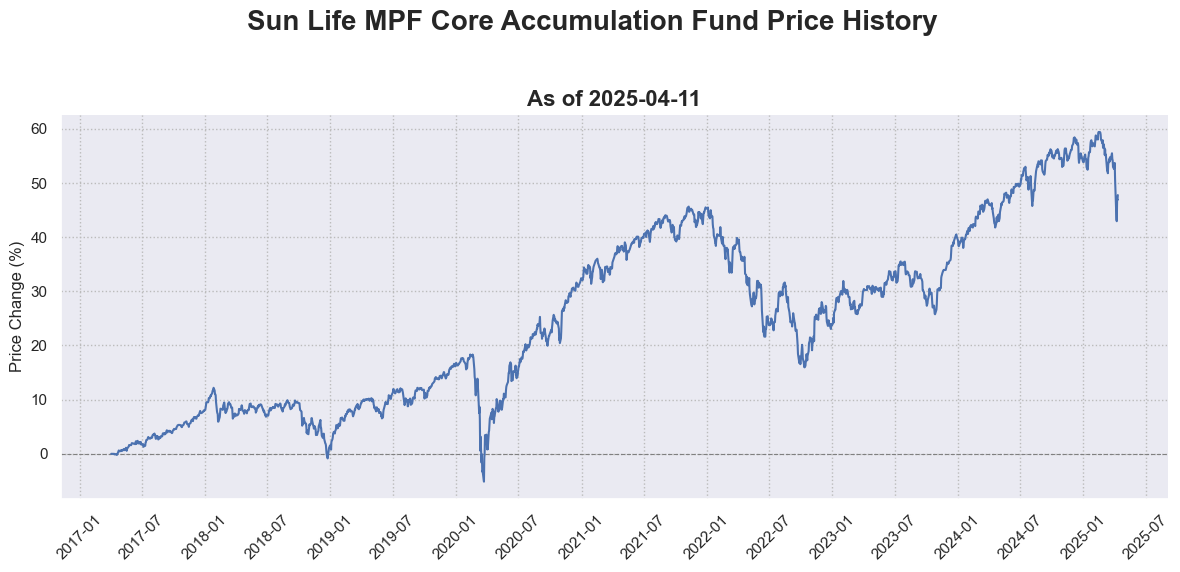
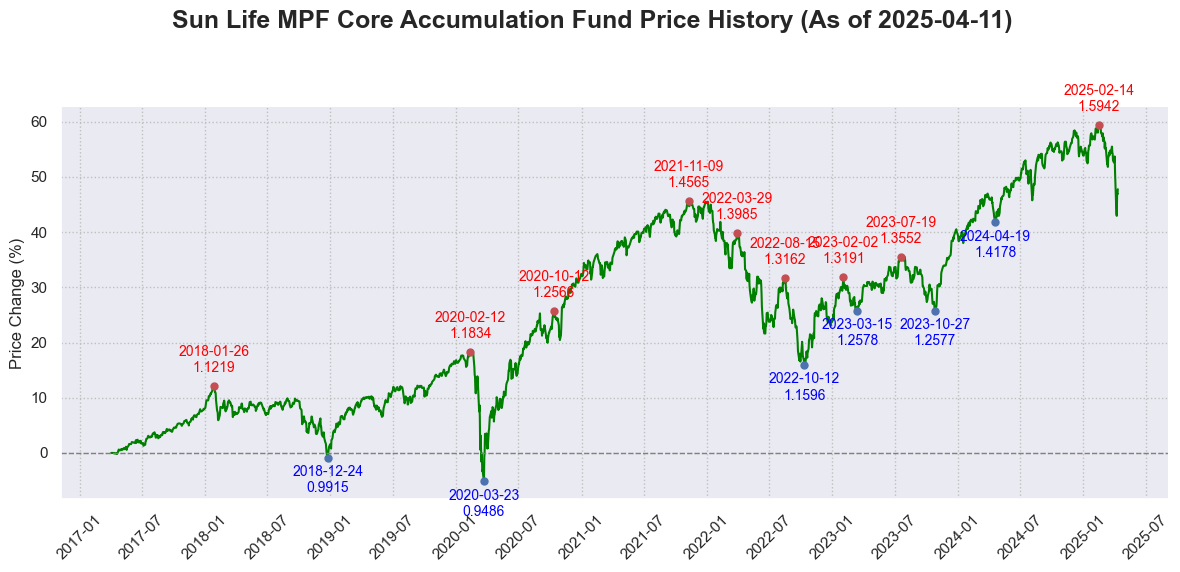
implement peaks and troughs annotation

diff --git a/visualizer.py b/visualizer.py
@@ -2,8 +2,10 @@ import os
 import matplotlib.pyplot as plt
 import matplotlib.dates as mdates
 import pandas as pd
+import numpy as np
 import seaborn as sns
 from datetime import timedelta, datetime
+from scipy.signal import find_peaks
 
 data_path = 'data'
 output_path = 'output'
@@ -96,16 +98,6 @@ def per_fund():
     fund_abbrs = names['abbr'].unique()
 
     for abbr in fund_abbrs:
-        fig, ax = plt.subplots(figsize=(12, 6))
-        full_name = names[names['abbr'] == abbr]['name'].values[0]
-        fig.suptitle(f'{full_name} Price History', fontsize=20, fontweight='bold')
-        
-        ax.set_title(f'As of {last_date.strftime("%Y-%m-%d")}', fontsize=16, fontweight='bold')
-        ax.axhline(0, color='grey', linestyle='--', linewidth=0.8)
-        ax.set_ylabel('Price Change (%)')
-        ax.xaxis.set_major_formatter(mdates.DateFormatter('%Y-%m'))
-        ax.tick_params(axis='x', rotation=45)
-
         plot_df = df[df['abbr'] == abbr].copy()
 
         if plot_df.empty:
@@ -117,7 +109,40 @@ def per_fund():
         if pd.isna(start_price):
             continue
 
+        plot_df['price_change'] = (plot_df['price'] - start_price) / start_price * 100
         diff = (last_date - actual_start_date).days
+        if diff >= 3650:
+            plot_df = plot_df.set_index('date')
+            plot_df_resampled = plot_df[['price_change']].resample('5D').mean().interpolate(method='linear').reset_index()
+        elif diff >= 7300:
+            plot_df = plot_df.set_index('date')
+            plot_df_resampled = plot_df[['price_change']].resample('15D').mean().interpolate(method='linear').reset_index()
+        else:
+            plot_df_resampled = plot_df.copy()
+
+        yext = plot_df_resampled['price_change'].max() - plot_df_resampled['price_change'].min()
+        peak_prominence = max(5, yext * 0.05)
+        trough_prominence = peak_prominence
+        peak_distance = max(30, diff // 35)
+
+        price_change = plot_df_resampled['price_change'].to_numpy()
+        if len(price_change) > peak_distance:
+            peaks, _ = find_peaks(price_change, prominence=peak_prominence, distance=peak_distance)
+            troughs, _ = find_peaks(-price_change, prominence=trough_prominence, distance=peak_distance)
+        else:
+            peaks = []
+            troughs = []
+
+        fig, ax = plt.subplots(figsize=(12, 6))
+        full_name = names[names['abbr'] == abbr]['name'].values[0]
+        fig.suptitle(f'{full_name} Price History (As of {last_date.strftime("%Y-%m-%d")})', fontsize=18, fontweight='bold')
+        
+        # ax.set_title(f'As of {last_date.strftime("%Y-%m-%d")}', fontsize=16, fontweight='bold')
+        ax.axhline(0, color='grey', linestyle='--', linewidth=1.0)
+        ax.set_ylabel('Price Change (%)')
+        ax.xaxis.set_major_formatter(mdates.DateFormatter('%Y-%m'))
+        ax.tick_params(axis='x', rotation=45)
+
         if diff < 732:
             ax.xaxis.set_major_locator(mdates.MonthLocator(interval=1))
         elif diff < 1828:
@@ -128,17 +153,20 @@ def per_fund():
             ax.xaxis.set_major_locator(mdates.YearLocator(1))
         else:
             ax.xaxis.set_major_locator(mdates.YearLocator(2))
-
-        plot_df['price_change'] = (plot_df['price'] - start_price) / start_price * 100
-        plot_df = plot_df.set_index('date')
-
-        if diff >= 3650:
-            plot_df = plot_df[['price_change']].resample('5D').mean().interpolate(method='linear')
-        elif diff >= 7300:
-            plot_df = plot_df[['price_change']].resample('15D').mean().interpolate(method='linear')
         
-        plot_df = plot_df.reset_index()
-        ax.plot(plot_df['date'], plot_df['price_change'], linewidth=1.5)
+        ax.plot(plot_df_resampled['date'], plot_df_resampled['price_change'], linewidth=1.5, zorder=1, color='green')
+
+        for idx in peaks:
+            d, pc = plot_df_resampled['date'].iloc[idx], plot_df_resampled['price_change'].iloc[idx]
+            ax.plot(d, pc, 'ro', markersize=5, zorder=2)
+            ax.annotate(f"{d.strftime('%Y-%m-%d')}\n{1 + pc / 100:.4f}", (d, pc),
+                        textcoords="offset points", xytext=(0, 10), ha='center', fontsize=10, color='red')
+    
+        for idx in troughs:
+            d, pc = plot_df_resampled['date'].iloc[idx], plot_df_resampled['price_change'].iloc[idx]
+            ax.plot(d, pc, 'bo', markersize=5, zorder=2)
+            ax.annotate(f"{d.strftime('%Y-%m-%d')}\n{1 + pc / 100:.4f}", (d, pc),
+                        textcoords="offset points", xytext=(0, -25), ha='center', fontsize=10, color='blue')
         
         ax.grid(True, linestyle=':', linewidth=1, color='#bfbfbf')
         sns.despine()
